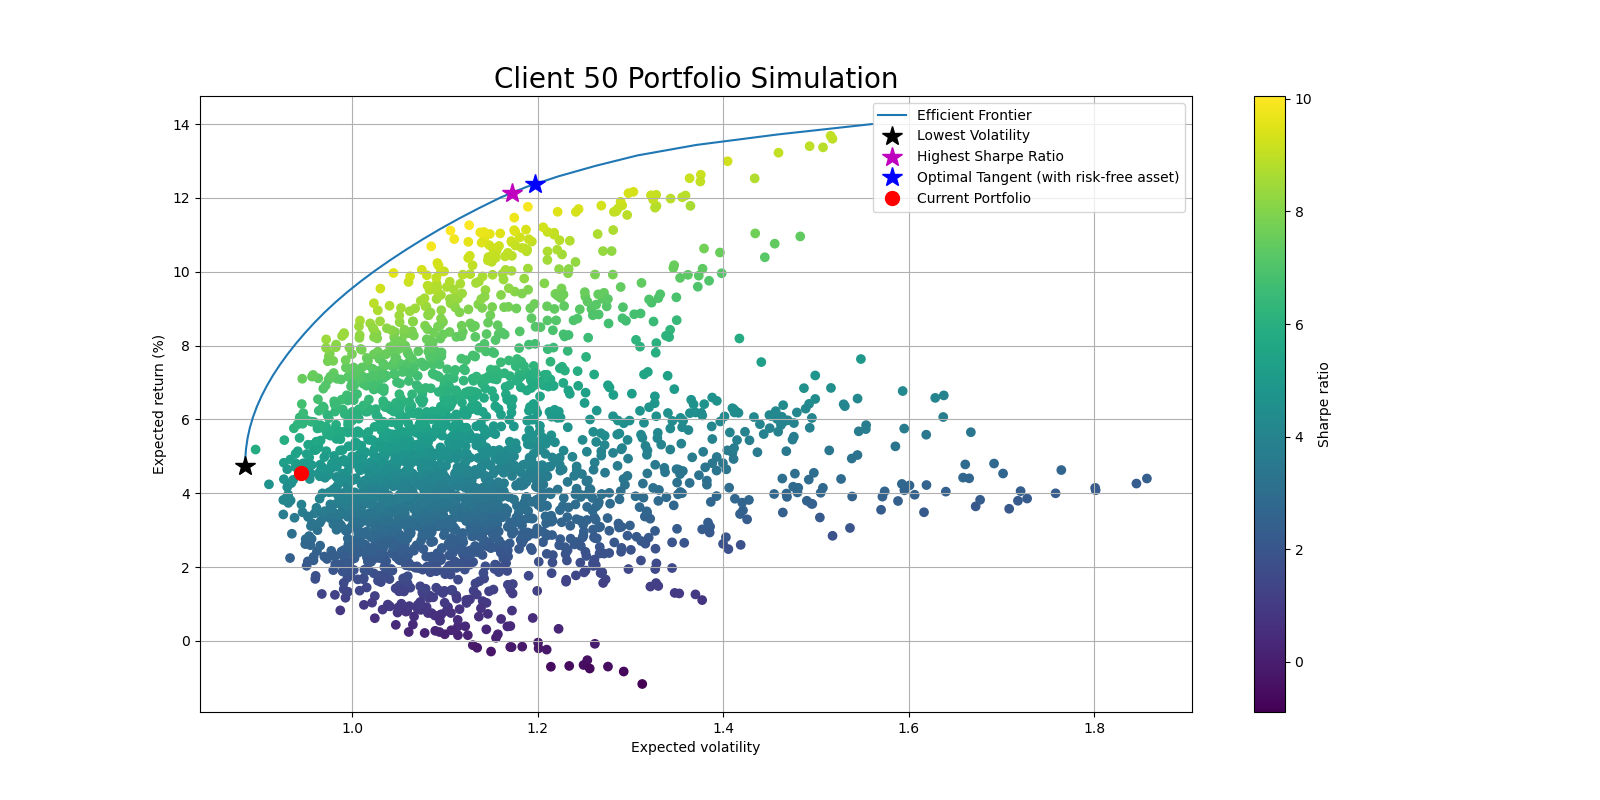
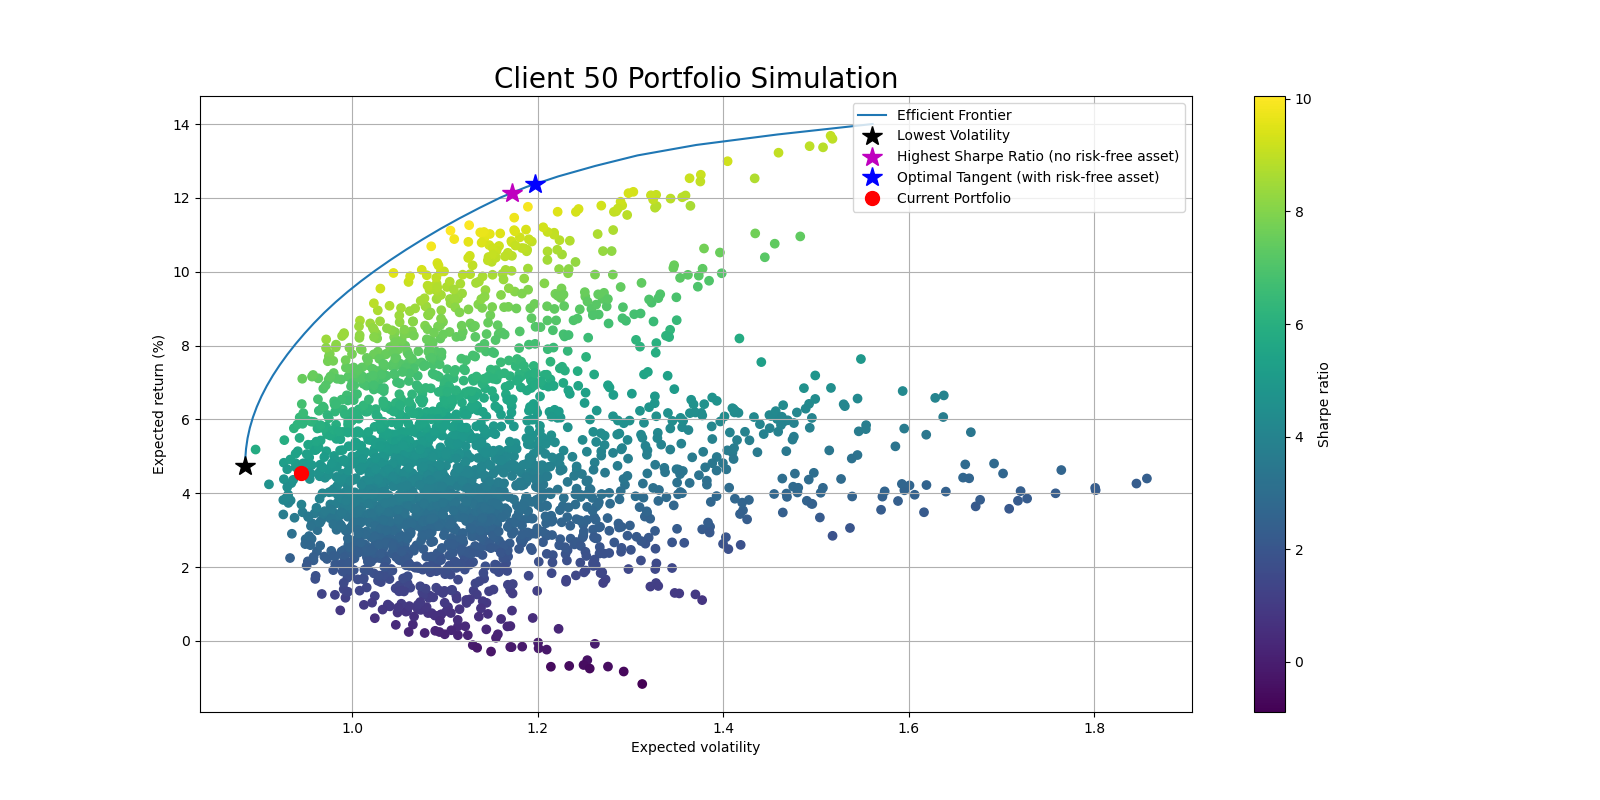
added option for risk-free asset in sharpe calc

Changed region(s): [[0.5312, 0.125, 0.75, 0.2812]]

diff --git a/portfolio_manager.py b/portfolio_manager.py
@@ -31,7 +31,7 @@ class PortfolioManager:
         self.OUTPUT_PATH.mkdir(exist_ok=True)
 
 
-    def get_client_risk(self, group: int):
+    def get_client_risk(self, group: int) -> str:
         if group >= 1 and group <= 3:
             return 'Risk Averse'
         elif group >= 4 and group <= 7:
@@ -40,7 +40,7 @@ class PortfolioManager:
             return 'Risk Seeker'
         
 
-    def get_client_age(self, group: int):
+    def get_client_age(self, group: int) -> str:
         if group == 1:
             return '18-24'
         elif group == 2:
@@ -139,16 +139,18 @@ class PortfolioManager:
 
         client_return = self.portfolio_return(weights, self.data['returns'])
         client_stdev = self.portfolio_stdev(weights, self.data['returns'])
+        client_sharpe = self.portfolio_sharpe(weights, self.data['returns'], with_risk_free_asset=False)
         print('Current return:', str(round(100*client_return, 3))+'%')
         print('Current volatility:', round(client_stdev, 3))
+        print('Current Sharpe:', round(client_sharpe, 4), '(no risk-free asset)')
 
 
     # test normality of feature
-    def is_normal(self, feature: str, output_graphs: bool = True):
+    def is_normal(self, feature: str, output_graphs: bool = True) -> bool:
         print('Testing Normality of', feature)
 
         # graphical inspection using density plot
-        self.data[feature].plot.kde(subplots=True, figsize = [10, 15])
+        self.data[feature].plot.kde(subplots=True, figsize = [10, 20])
         plt.savefig(self.OUTPUT_PATH / Path(feature+'_distribution.png'))
         plt.close()
 
@@ -215,18 +217,21 @@ class PortfolioManager:
         optimal_weights_volatility = portfolio_alloc_stdev['x']
         optimal_return_volatility = self.portfolio_return(optimal_weights_volatility, returns)
         optimal_stdev_volatility = self.portfolio_stdev(optimal_weights_volatility, returns)
+        optimal_sharpe_volatility = \
+            self.portfolio_sharpe(optimal_weights_volatility, returns, with_risk_free_asset=False)
 
-        print('Portfolio Allocation (Minimising Volatility):')
+        print('Portfolio Allocation - Minimising Volatility:')
         for idx, weight in enumerate(optimal_weights_volatility):
             print(self.asset_list[idx]+':', str(round(100*weight, 3))+'%')
         print('-'*20)
         print('Estimated Return:', str(round(100*optimal_return_volatility, 3))+'%')
         print('Estimated Volatility:', round(optimal_stdev_volatility, 3))
+        print('Sharpe Ratio:', round(optimal_sharpe_volatility, 4), '(no risk-free asset)')
         print('-'*20)
 
-        # portfolio allocation when maximising sharpe ratio
+        # portfolio allocation when maximising sharpe ratio (no risk-free asset)
         portfolio_alloc_sharpe = sco.minimize(
-            fun = lambda weights: -self.portfolio_sharpe(weights, returns),
+            fun = lambda weights: -self.portfolio_sharpe(weights, returns, with_risk_free_asset=False),
             x0 = [1/n_assets for _ in range(n_assets)], 
             method = 'SLSQP',
             bounds = [(0, 1) for _ in range(n_assets)], 
@@ -236,13 +241,16 @@ class PortfolioManager:
         optimal_weights_sharpe = portfolio_alloc_sharpe['x']
         optimal_return_sharpe = self.portfolio_return(optimal_weights_sharpe, returns)
         optimal_stdev_sharpe = self.portfolio_stdev(optimal_weights_sharpe, returns)
+        optimal_sharpe_sharpe = \
+            self.portfolio_sharpe(optimal_weights_sharpe, returns, with_risk_free_asset=False)
 
-        print('Portfolio Allocation (Maximising Sharpe):')
+        print('Portfolio Allocation - Maximising Sharpe (no risk-free asset):')
         for idx, weight in enumerate(optimal_weights_sharpe):
             print(self.asset_list[idx]+':', str(round(100*weight, 3))+'%')
         print('-'*20)
         print('Estimated Return:', str(round(100*optimal_return_sharpe, 3))+'%')
         print('Estimated Volatility:', round(optimal_stdev_sharpe, 3))
+        print('Sharpe Ratio:', round(optimal_sharpe_sharpe, 4), '(no risk-free asset)')
         print('-'*20)
 
         # find efficient frontier for returns in range [0.001, 0.14]
@@ -270,9 +278,10 @@ class PortfolioManager:
 
         # return and volatility when efficient frontier is tangent to risk-free line
         optimal_stdev_tangent = sco.fsolve(
+            # difference between slope formed by points [(stdev, return), (0, risk_free_rate)]
+            # and slope of the tangent at point stdev
             func = lambda stdev: abs(
-                (sci.splev(stdev, spline) - self.risk_free_rate) / stdev - 
-                sci.splev(stdev, spline, der=1)
+                (sci.splev(stdev, spline) - self.risk_free_rate) / stdev - sci.splev(stdev, spline, der=1)
             ), 
             x0 = 1
         )
@@ -292,19 +301,21 @@ class PortfolioManager:
         )
         assert portfolio_alloc_tangent['success'], portfolio_alloc_tangent['message']
         optimal_weights_tangent = portfolio_alloc_tangent['x']
+        optimal_sharpe_tangent = \
+            self.portfolio_sharpe(optimal_weights_tangent, returns)
         
-        print('Portfolio Allocation (Efficient Frontier with tangent to risk-free line):')
+        print('Portfolio Allocation - Optimising Tangent to risk-free asset:')
         for idx, weight in enumerate(optimal_weights_tangent):
             print(self.asset_list[idx]+':', str(round(100*weight, 3))+'%')
         print('-'*20)
         print('Estimated Return:', str(round(100*float(optimal_return_tangent), 3))+'%')
         print('Estimated Volatility:', round(float(optimal_stdev_tangent), 3))
+        print('Sharpe Ratio:', round(optimal_sharpe_tangent, 4), '(with risk-free asset)')
 
         '''
         Calculate client portfolio statistics
         '''
 
-        client_id = self.client_id
         client_weights = self.client_data.iloc[2:]
         client_return = self.portfolio_return(client_weights, returns)
         client_stdev = self.portfolio_stdev(client_weights, returns)
@@ -341,7 +352,7 @@ class PortfolioManager:
             optimal_return_sharpe*100,
             'm*',
             markersize = 15.0, 
-            label = 'Highest Sharpe Ratio'
+            label = 'Highest Sharpe Ratio (no risk-free asset)'
         )
         # plot optimal tangent portfolio (with risk-free asset)
         plt.plot(
@@ -370,22 +381,25 @@ class PortfolioManager:
         plt.close()
 
 
-    def portfolio_return(self, weights, returns):
+    def portfolio_return(self, weights, returns) -> float:
         try:
             return np.sum(returns.mean() * weights)
         except ValueError:
             raise ValueError('Number of weights and assets must match')
     
 
-    def portfolio_stdev(self, weights, returns):
+    def portfolio_stdev(self, weights, returns) -> float:
         try:
             return np.sqrt(np.dot(weights.T, np.dot(returns.cov(), weights)))
         except ValueError:
             raise ValueError('Number of weights and assets must match')
 
 
-    def portfolio_sharpe(self, weights, returns):
+    def portfolio_sharpe(self, weights, returns, with_risk_free_asset: bool = True) -> float:
         try:
-            return self.portfolio_return(weights, returns) / self.portfolio_stdev(weights, returns)
+            if with_risk_free_asset:
+                return (self.portfolio_return(weights, returns) - self.risk_free_rate) / self.portfolio_stdev(weights, returns)
+            else:
+                return self.portfolio_return(weights, returns) / self.portfolio_stdev(weights, returns)
         except ValueError:
             raise ValueError('Number of weights and assets must match')

diff --git a/run.py b/run.py
@@ -1,10 +1,14 @@
 from portfolio_manager import PortfolioManager
+from sentiment_advisor import SentimentAdvisor
 
 def main():
     pm = PortfolioManager()
     pm.ETL()
     pm.feature_engineering()
     pm.model_design()
+
+    sa = SentimentAdvisor()
+    sa.ETL()
 
 if __name__ == '__main__':
     main()

diff --git a/sentiment_advisor.py b/sentiment_advisor.py
@@ -1,0 +1,9 @@
+
+
+class SentimentAdvisor:
+
+    def __init__(self):
+        pass
+
+    def ETL(self):
+        pass
